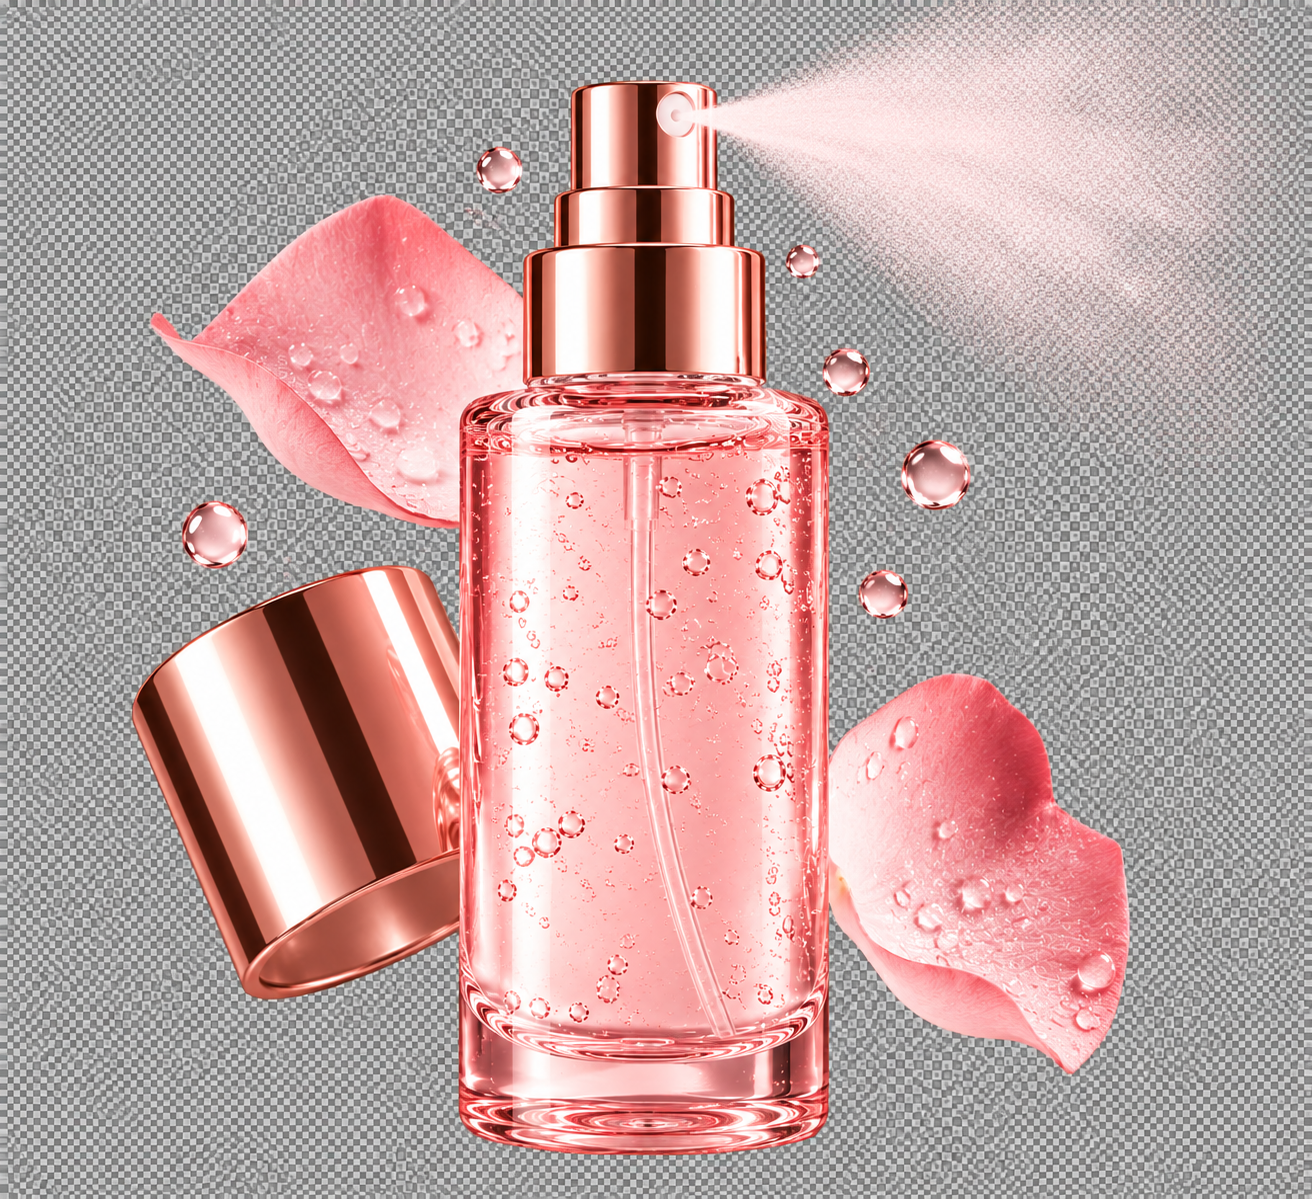
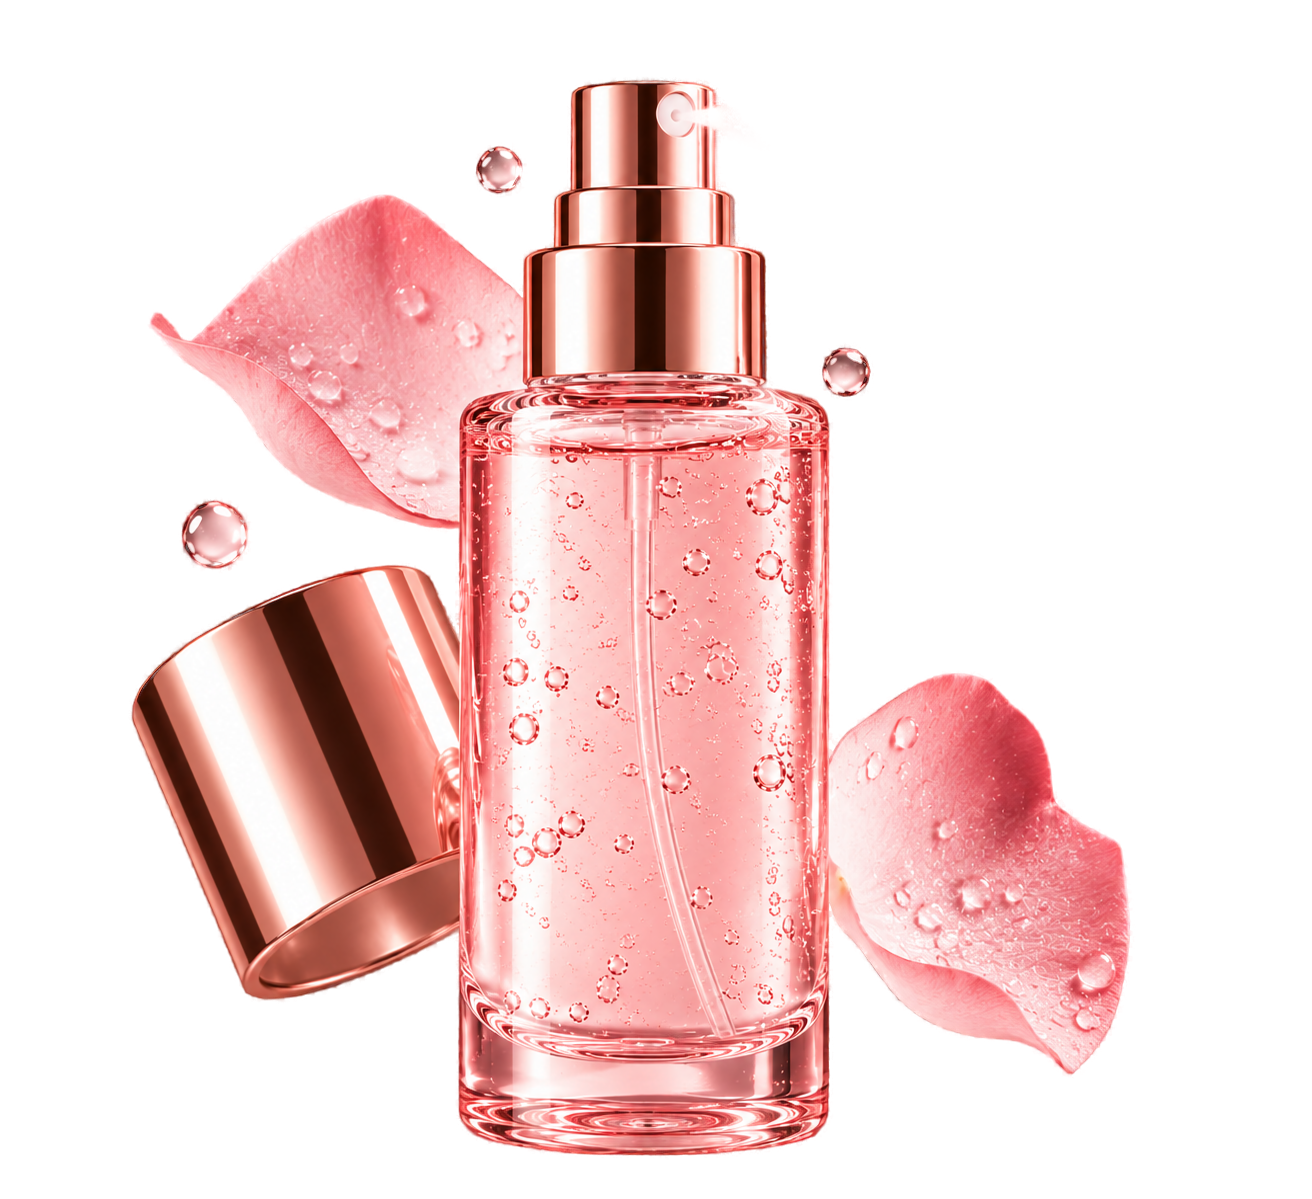
fix(routine360): corrige le fond gris des images de catégories + le mélange visage/corps
- Supprime le fond gris non-transparent de 12 images de catégories
  générées (serum, creme-visage, contour-yeux, masque, exfoliant,
  huile-visage, creme-corps, demaquillant, brume, creme-solaire,
  soin-levres, huile-corps) via détourage automatique, pour qu'elles
  soient enfin de vrais PNG transparents comme les 3 premières.
- Corrige le filtrage des produits dans Routine360Page.jsx : la
  section "skincare" mélangeait produits visage et corps. La routine
  "corps" était déjà filtrée, mais la routine "visage" affichait par
  erreur les produits corps (creme-corps, huile-corps,
  creme-solaire-corps). Ajout d'une exclusion symétrique pour la
  routine visage, tout en gardant les produits partagés (nettoyant,
  brume) disponibles dans les deux.
- Audit des sections maquillage et cheveux : pas de contamination
  croisée détectée, aucun changement nécessaire côté code pour elles.

Claude-Session: https://claude.ai/code/session_01RQ4GMeZytdPi95et2aZoPf

diff --git a/frontend/src/pages/Routine360Page.jsx b/frontend/src/pages/Routine360Page.jsx
@@ -311,12 +311,29 @@ export default function Routine360Page() {
         : chosenType === "cheveux" ? ["cheveux"]
         : ["skincare"];
 
-    // For "corps" route, filter skincare to body-only products
+    // La section "skincare" mélange des produits visage ET corps : on exclut
+    // les uns des autres selon le type de routine choisi (bug remonté : des
+    // produits visage apparaissaient en "routine corps", et vice-versa).
+    const BODY_ONLY_SLUGS = ["creme-corps", "huile-corps", "creme-solaire-corps"];
+    const isBodyOnly = (p) =>
+      BODY_ONLY_SLUGS.includes(p.slug) ||
+      p.label.toLowerCase().includes("corps") ||
+      p.label.toLowerCase().includes("mains") ||
+      p.label.toLowerCase().includes("pieds") ||
+      p.label.toLowerCase().includes("déo");
+    // Produits partagés entre visage et corps (nettoyant, brume) : utiles aux deux routines.
+    const SHARED_SLUGS = ["nettoyant", "brume"];
+
     const items = (sec) => {
       const all = ROUTINE_PRODUCTS.filter((p) => p.section === sec);
-      if (chosenType === "corps" && sec === "skincare") {
-        return all.filter((p) => ["nettoyant","creme-corps","huile-corps","creme-solaire-corps","brume"].includes(p.slug) || p.label.toLowerCase().includes("corps") || p.label.toLowerCase().includes("mains") || p.label.toLowerCase().includes("pieds") || p.label.toLowerCase().includes("déo"));
+      if (sec !== "skincare") return all;
+      if (chosenType === "corps") {
+        return all.filter((p) => isBodyOnly(p) || SHARED_SLUGS.includes(p.slug));
       }
+      if (chosenType === "visage") {
+        return all.filter((p) => !isBodyOnly(p));
+      }
+      // "360" (routine complète) : on garde tout, visage + corps.
       return all;
     };
 
